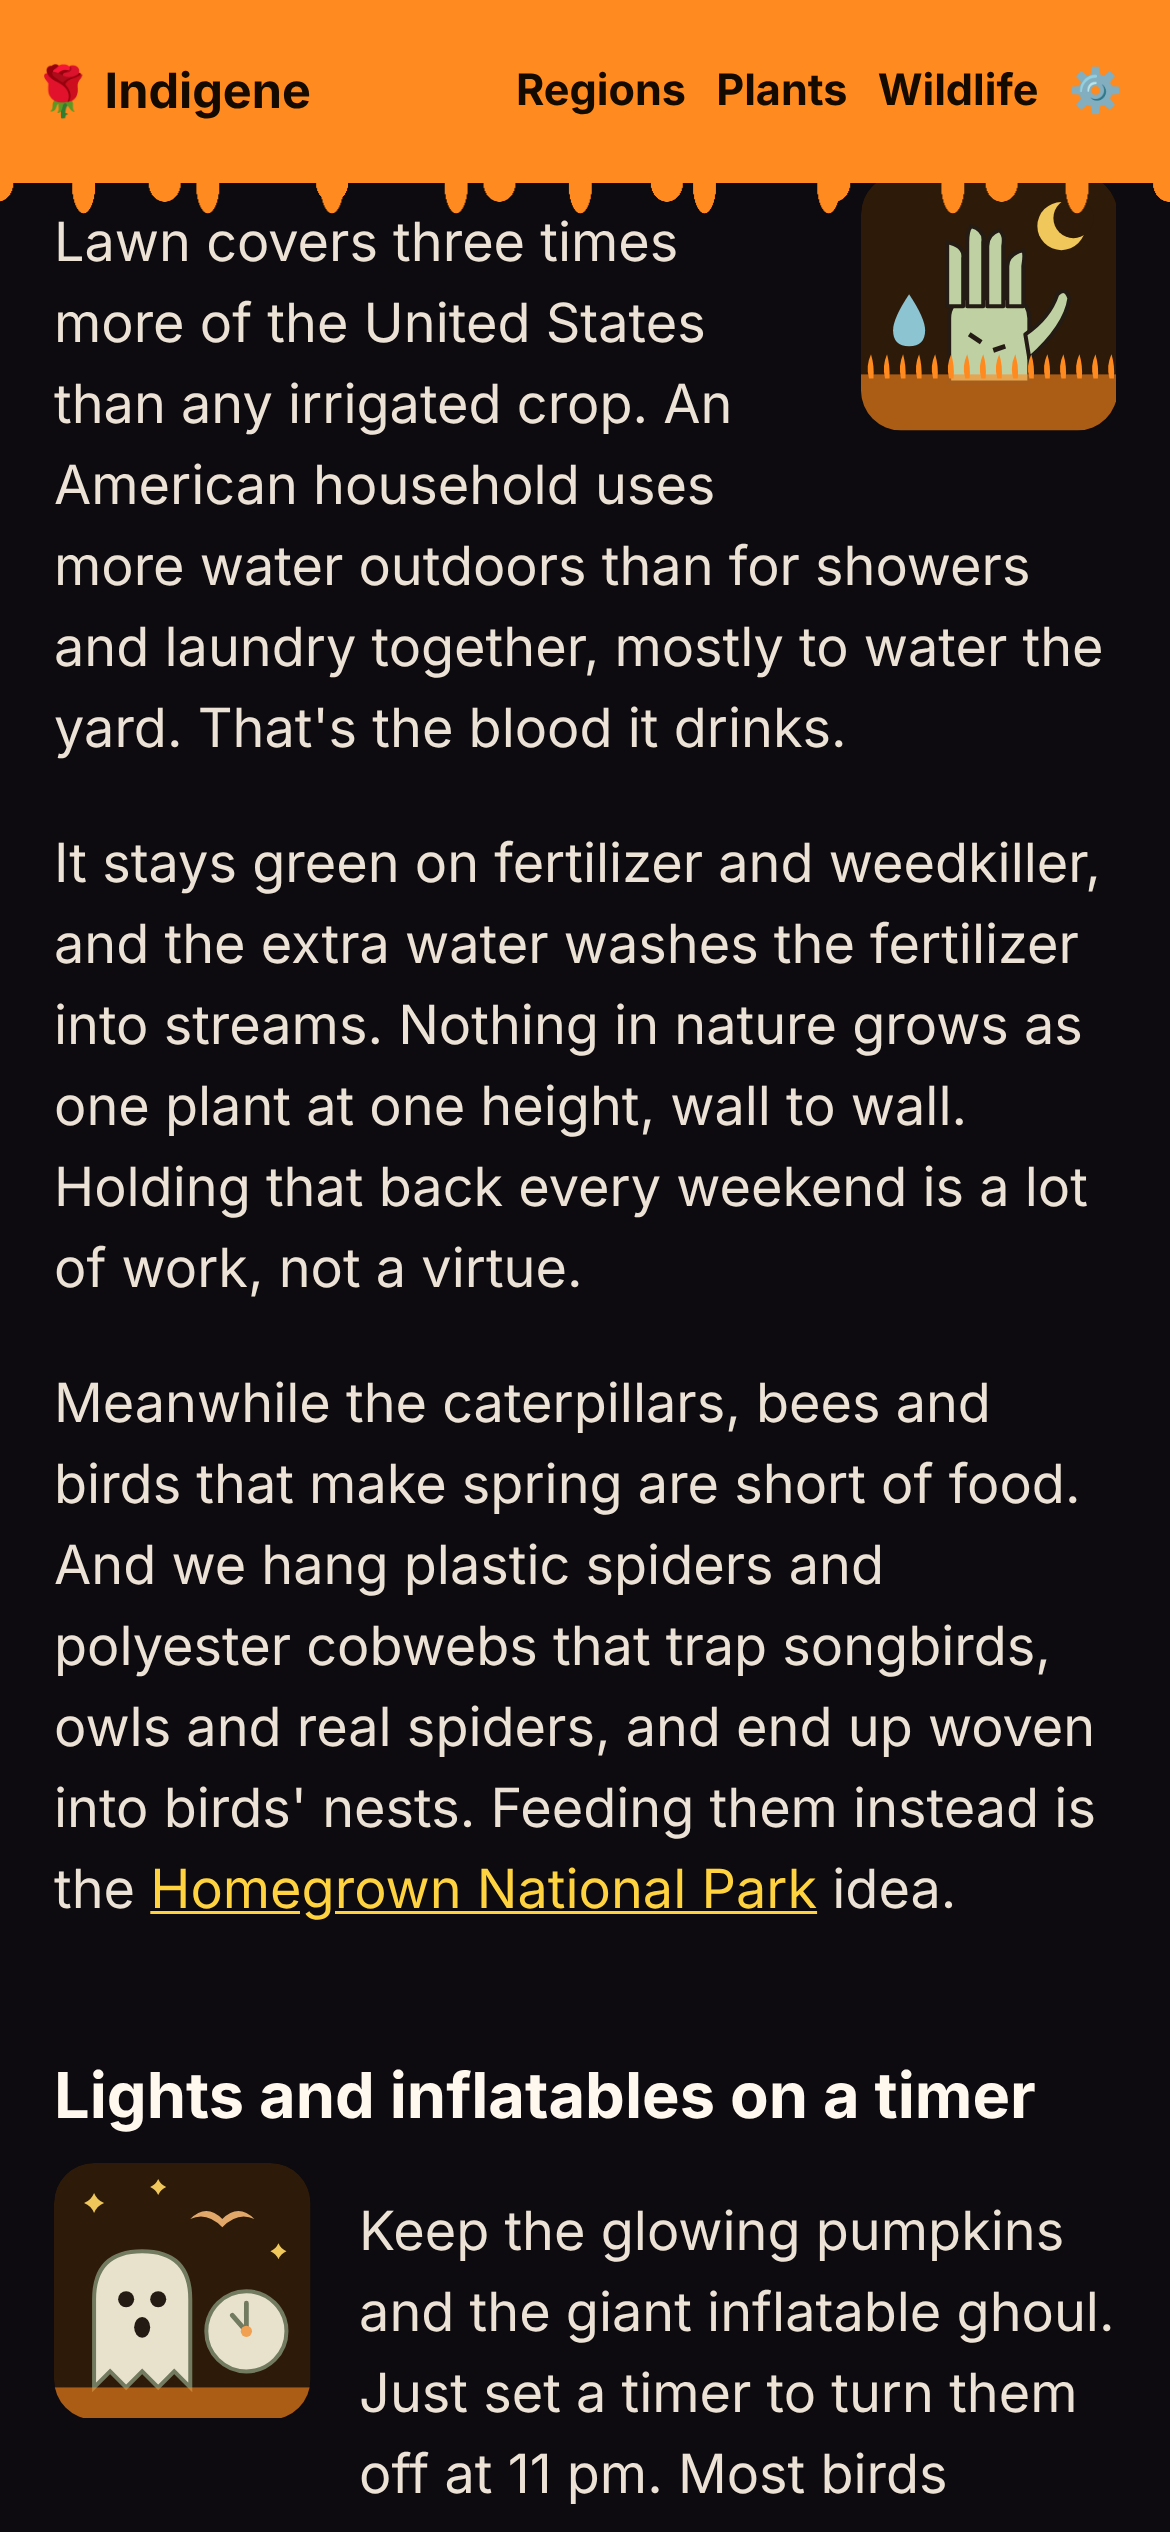
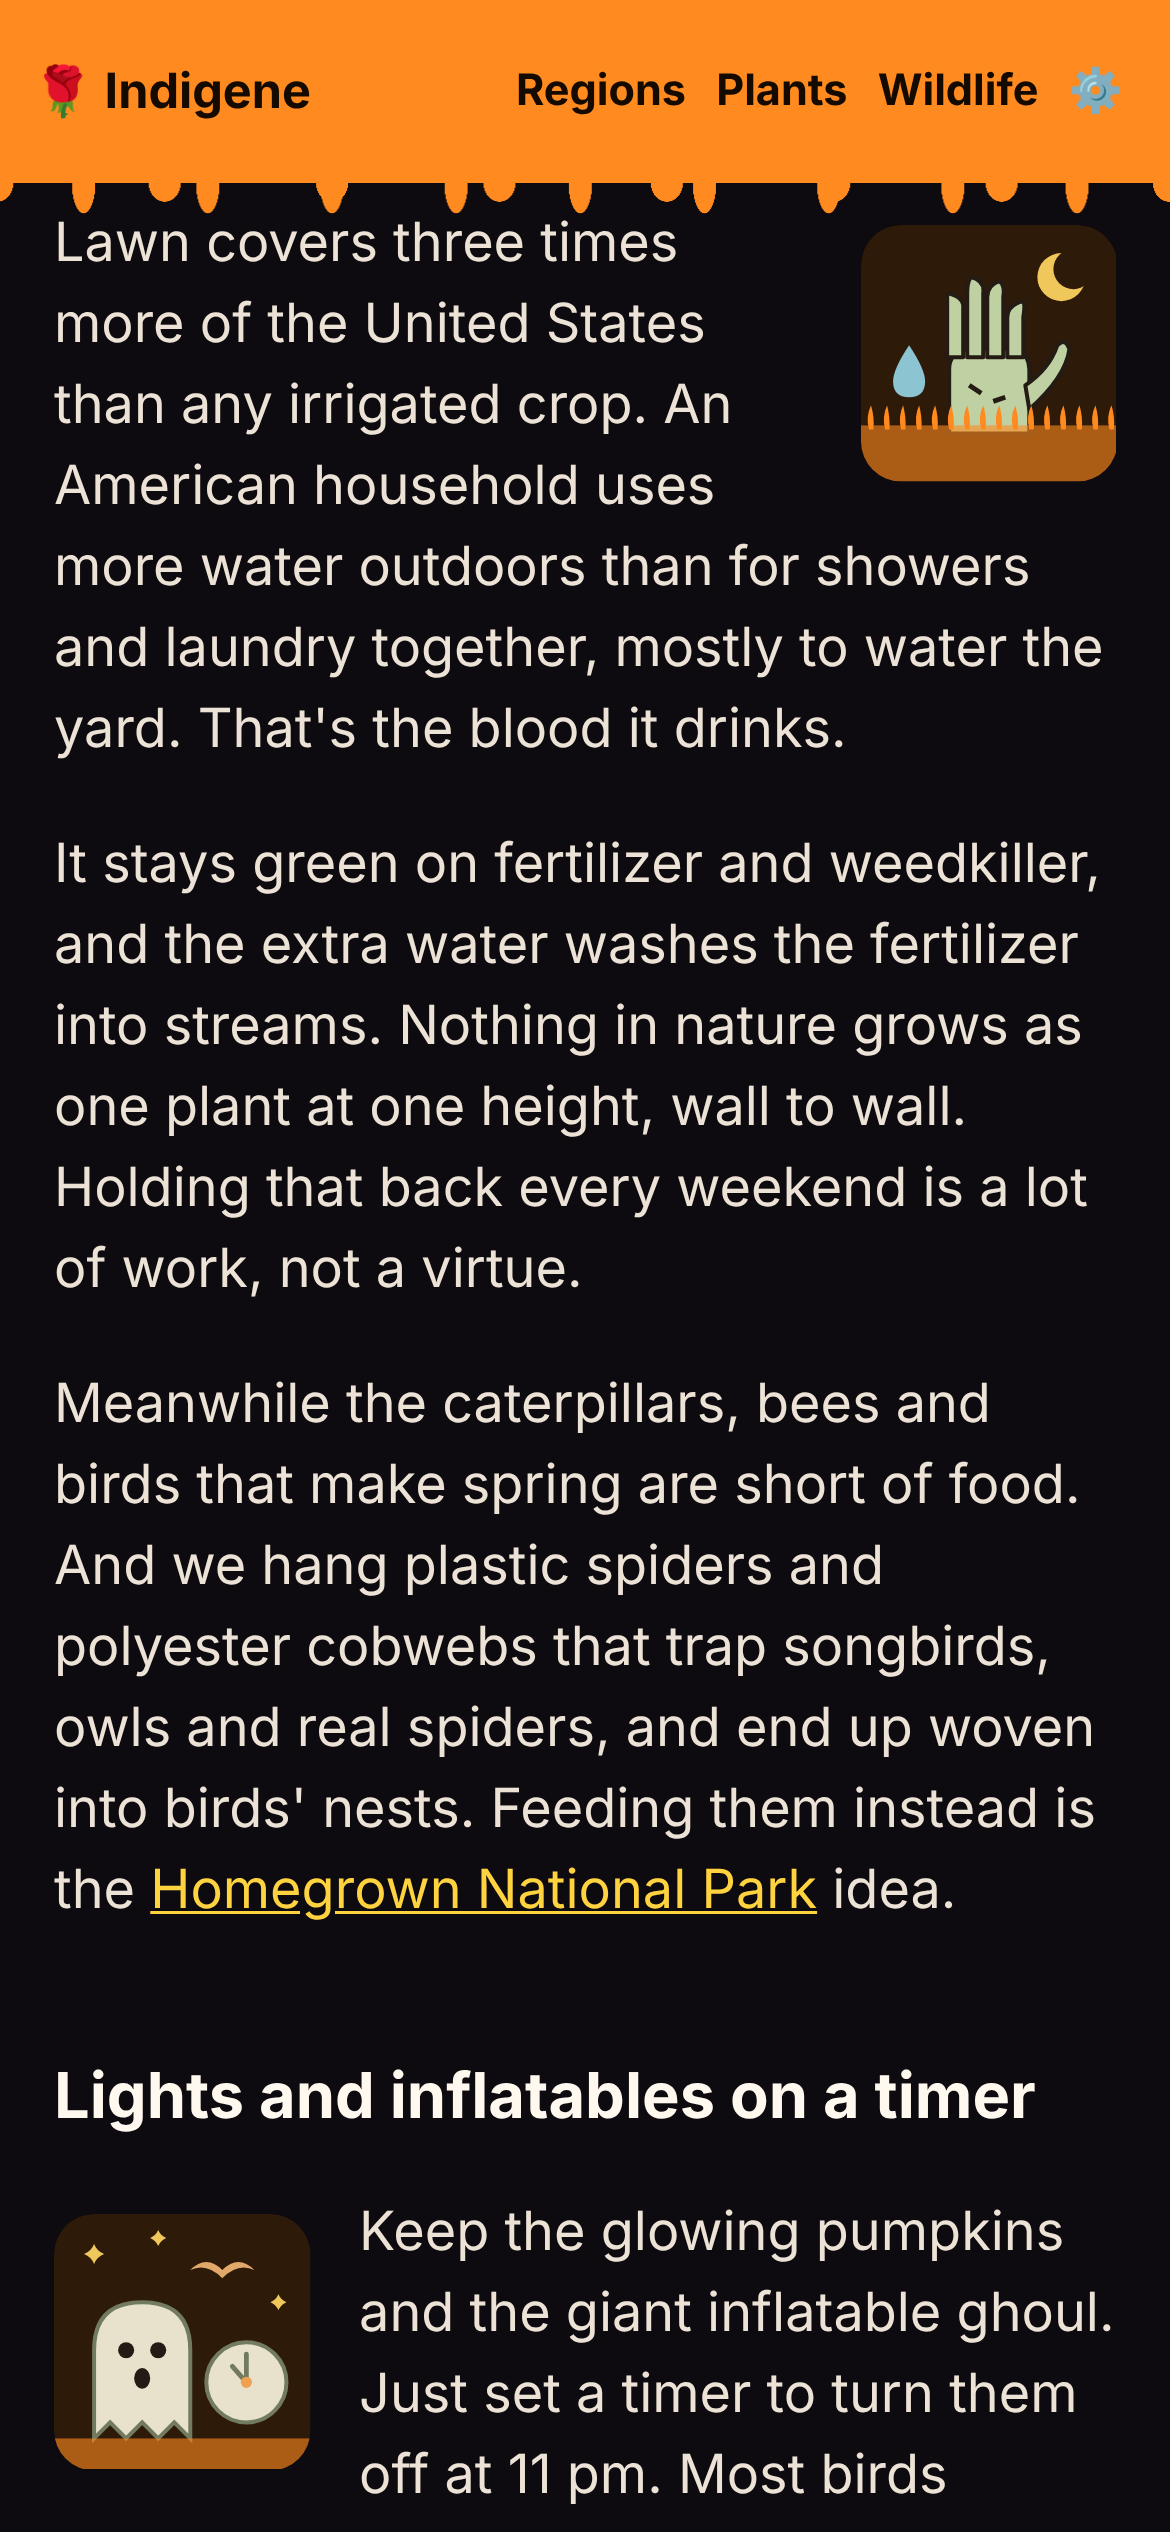
Posts: start each drawing on the body's first line, level with its capitals
Claude-Session: https://claude.ai/code/session_017bkR8RpQvS7AbnzPv5RauM

Changed region(s): [[0.0308, 0.8424, 0.2769, 0.9984], [0.7385, 0.0624, 0.9538, 0.2184]]

diff --git a/app/src/steps/posts.ts b/app/src/steps/posts.ts
@@ -171,11 +171,16 @@ const HALLOWEEN_SOURCES: { name: string; url: string; what: TKey }[] = [
 
 /** Halloween: the lawn as a zombie, the decorations kept with their lights on
  *  a timer, and a way on to the guide that outlasts the holiday. Each section
- *  carries a small square drawing of what its heading says, after the heading
- *  so the text beside it is the body, on alternating sides (styles.css). */
+ *  carries a small square drawing of what its heading says, beside the body
+ *  rather than the heading, on alternating sides (styles.css). The drawing goes
+ *  inside the first paragraph (or list item), so it starts on the same line as
+ *  the text instead of above that paragraph's top margin. */
 function halloween2026Body(key: string): HTMLElement[] {
-  const section = (art: SquareName, title: string, body: HTMLElement[]) =>
-    el("section", { class: "post-section" }, [el("h3", {}, title), squareArt(art), ...body]);
+  const section = (art: SquareName, title: string, body: HTMLElement[]) => {
+    const first = body[0].tagName === "UL" ? body[0].firstElementChild! : body[0];
+    first.prepend(squareArt(art));
+    return el("section", { class: "post-section" }, [el("h3", {}, title), ...body]);
+  };
   return [
     section("zombie", t(pk(key, "zombieTitle")), [
       el("p", {}, t(pk(key, "zombie1"))),

diff --git a/app/src/styles.css b/app/src/styles.css
@@ -7770,16 +7770,17 @@ a.welcome-way:hover strong { text-decoration: underline; }
 .post-plant p { margin: 0.35rem 0 0; }
 /* A post section with its square drawing floated beside the heading. */
 .post-section { display: flow-root; }
+/* The top margin drops the drawing from the line box's top to the capitals'. */
 .page-art.square-art {
   float: right;
   width: 4.75rem;
   max-width: none;
-  margin: 0.15rem 0 0.5rem 0.9rem;
+  margin: 0.4em 0 0.5rem 0.9rem;
 }
 /* Every other section's drawing sits on the left, so the page zigzags. */
 .post-section:nth-of-type(even) .page-art.square-art {
   float: left;
-  margin: 0.15rem 0.9rem 0.5rem 0;
+  margin: 0.4em 0.9rem 0.5rem 0;
 }
 
 /* The posts index: each row opens on its date, so the list reads as a timeline. */
